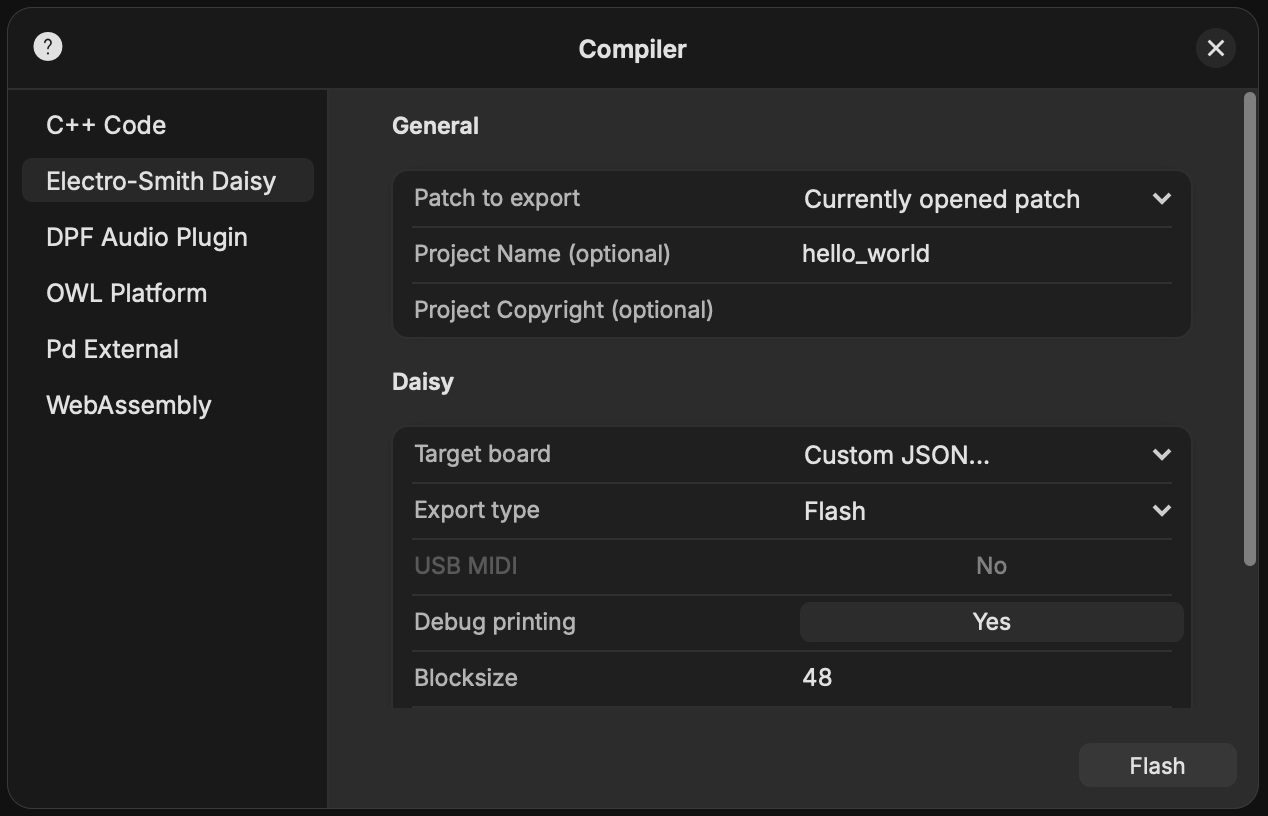
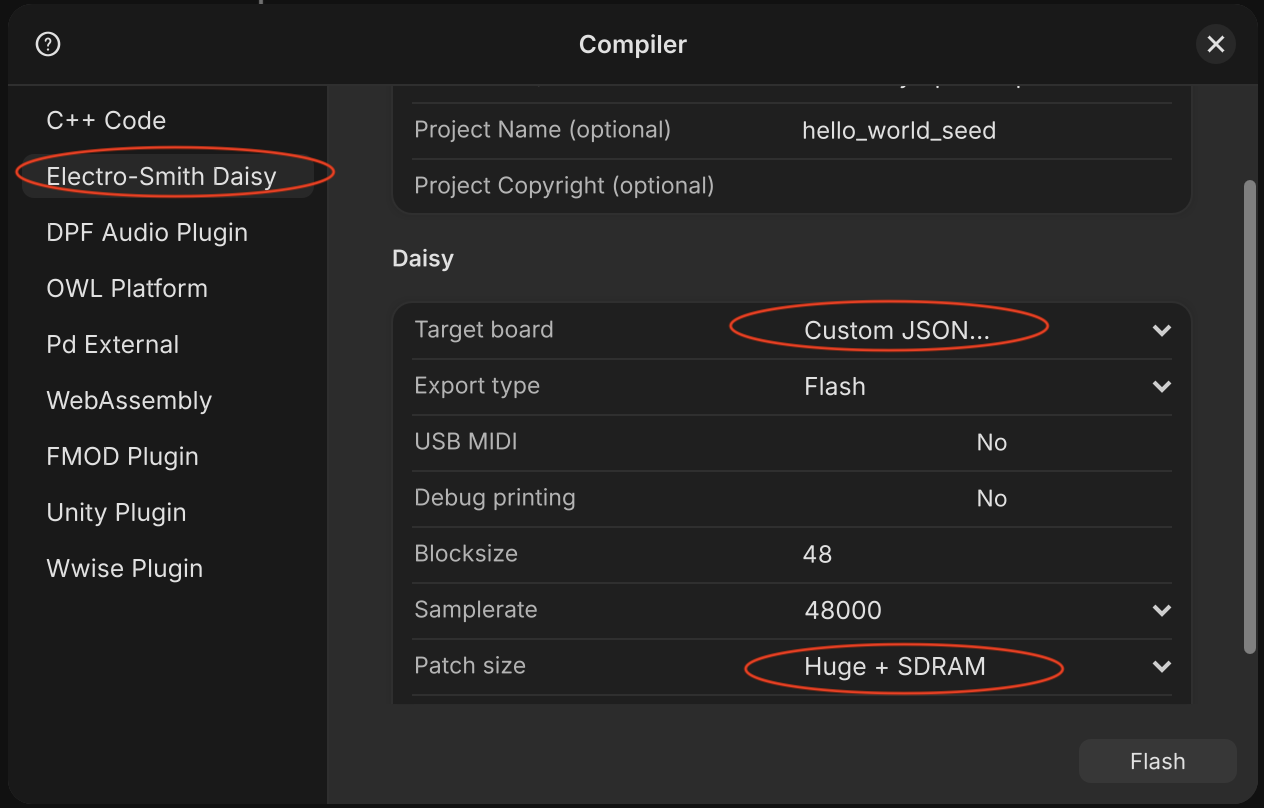
improvements

diff --git a/workshops/daisy/daisy.md b/workshops/daisy/daisy.md
@@ -26,16 +26,16 @@ What's the advantage of using a microcontroller over a computer? Rather than bei
 </p>
 
 
-## Circuits
+<!-- ## Circuits
 
 According to the dictionary, in the general sense the word circuit means "a roughly circular line, route, or movement that starts and finishes at the same place." That applies in the electrical sense, too. A circuit is a loop in which electricity is flowing from "power" back to "ground" and making something happen along the way. We typically use `+` (power) and `-` (ground) to indicate which side of the circuit we're on.
 
 <p align="center">
     <img src="media/circuit_loop.png" width="600" />
 </p>
+ -->
 
-
-### An aside for analogies
+<!-- ### An aside for analogies
 
 `Current` is the amount of electricity that is flowing through the circuit. `Voltage` is the "pressure" at any given point. `Resistance` releases some of that pressure (as heat — it's slightly misnamed IMO, should be more like "Dissipator"). This gives us Ohm's law: Current = Voltage / Resistance.
 
@@ -45,7 +45,7 @@ Likewise, in audio, voltage fluctuations correspond to the _shape_ of the sound.
 
 In Pd, the "signal" connections are also analogous to sound / voltage; they are "waves" between -1 and 1 that flow through your objects.
 
-However, most of what we'll do with the Daisy Seed is more like the "control" connections of Pd. In this case, the voltage isn't oscillating like a wave—it's set at constant values that mean something, like if a toggle is on or off, or a slider is set at a particular position. This is where resistance comes into play. Using resistors (which is what a button, knob, or sensor is from an electrical perspective), we can change the voltage at various places in our circuit, measure the result, and use that as data within Pd.
+However, most of what we'll do with the Daisy Seed is more like the "control" connections of Pd. In this case, the voltage isn't oscillating like a wave—it's set at constant values that mean something, like if a toggle is on or off, or a slider is set at a particular position. This is where resistance comes into play. Using resistors (which is what a button, knob, or sensor is from an electrical perspective), we can change the voltage at various places in our circuit, measure the result, and use that as data within Pd. -->
 
 
 ## Pins
@@ -115,7 +115,7 @@ There is basically only one rule when we make connections. And that is that when
 
 ## Breadboard setup
 
-Put the Daisy on the breadboard like in the image below. Pushing the pins into the board can feel a bit scary, be careful but firm.
+Put the Daisy on the breadboard like in the image below. Pushing the pins into the board can feel a bit scary; be careful but firm.
 
 <p align="center">
     <img src="media/setup_bb.png" width="1000" />
@@ -158,13 +158,31 @@ Coming out of the toggle will be another object, `ac/daisyout led 0`. This one c
     <img src="media/hello_1.png" width="400" />
 </p>
 
+### Compiling
+
+#### Windows:
+
+If you're on a Windows machine, you need to do some initial configuring:
+
+0. Download Zadig from zadig.akeo.ie and open it.
+0. Put the Daisy in bootloader mode: hold BOOT, tap RESET.
+0. In Zadig, choose Options → List All Devices.
+0. Pick “DFU in FS Mode” from the dropdown.
+0. Set the target driver to WinUSB and click Replace Driver (or Install Driver).
+
+
+#### Everyone:
+
 Now choose "Compile" under the main menu. Compiling converts our patch into firmware for the Daisy. You should be prompted to install or update your "toolchain" if you haven't already. Go ahead and do this.
 
 <p align="center">
     <img src="media/toolchain.png" width="600" />
 </p>
 
-Then you'll get to the compiler window. Make sure you have "Electro-Smith Daisy" selected, and for the target board, choose "Custom JSON". This should open a dialog box, where you'll select [compile.json](compile.json) that you've downloaded from github via Moodle.
+Then you'll get to the compiler window. Make sure you have the following selected:
+- "Electro-Smith Daisy" in the left-hand panel
+- Target board set to "Custom JSON"; this should open a dialog box, where you'll select [compile.json](compile.json) (sample available on github and Moodle)
+- Patch size set to "Huge + SDRAM"; this lets us use the full capacity of the Daisy
 
 <p align="center">
     <img src="media/compiler.png" width="600" />
@@ -178,7 +196,7 @@ Plug in your Daisy. Notice that it has two buttons, "boot" and "reset" (very sma
 
 Now you're ready. Click Flash and cross your fingers ("flash" means load firmware onto a microcontroller).
 
-If it works, you'll see this (misleading, I know):
+If it works, you may see success. You might also see this (misleading, I know):
 
 <p align="center">
     <img src="media/good_fail.png" width="600" />

diff --git a/workshops/pd/synthesis.md b/workshops/pd/synthesis.md
@@ -11,6 +11,8 @@ All synthesis starts with oscillators. We'll use `ac/vco~` (VCO stands for Volta
   <img src="media/oscillator_shape.png" width=600 /><br />
 </p>
 
+Here, `ac/scope~` shows the waveform of the signal. It's very useful to see what is going on. Likewise, `ac/spec~` (spectrogram) shows the frequency content of the signal, ie, what frequencies are present and how much. (Notice that `ac/spec~` has an orange border—this means that it cannot be used with the Daisy)
+
 With one oscillator, we're limited to fairly simple tones. But by combining oscillations together in different ways, we can get infinitely complex sounds. The classic techniques used for this are called "additive", "AM", "FM", and "subtractive" synthesis.
 
 
@@ -33,6 +35,8 @@ Similarly, multiplication (`*~`) creates even wilder waveforms—in this case, w
 <p align="center">
   <img src="media/AM.png" width=600 /><br />
 </p>
+
+(The example above uses `ac/slider~`. Unlike a regular slider, it outputs a signal from 0 to 1. We can rescale it logarithmically using the `ac/freqscale~` object, which accomplishes the same thing as using properties on the regular slider. That said, `ac/slider~` is slightly smoother.)
 
 In general, even though LFOs aren't usually intended to be heard directly, they can change the character of other sounds as well as be used to control larger changes in a patch over time (they are largely the basis of modular synthesizers).
 
@@ -107,7 +111,7 @@ Note that Pd allows this to becomes a branching process: any number box can be r
 One very useful technique when creating dynamic sounds is to use `ac/lfo~` and rescale its output, which is 0 to 1, to some other useful range. Because we perceive frequency changes nonlinearly, we can use `ac/freqscale~` to map one range to another logarithmically:
 
 <p align="center">
-  <img src="media/automation.png" width=400 /><br />
+  <img src="media/automation.png" width=500 /><br />
 </p>
 
 Replacing all the variable number boxes in a patch with scaled LFOs, you can create a complex oscillator with multiple interacting parts:
@@ -120,8 +124,17 @@ Replacing all the variable number boxes in a patch with scaled LFOs, you can cre
 
 ## Recording a sound file
 
-To record what's happening in your patch, use `ac/recorder~`. This takes two signals, one for each channel, along with an "open" message to choose a path to write to and "start" and "stop" messages to do the thing. `ac/spkr~` has outlets with its two gain-adjusted channels, so you can just connect those right in to `ac/recorder~`.
+To record what's happening in your patch, Pd provides an option, in the upper-right-hand corner:
+
+<p align="center">
+  <img src="media/recording.png" width=400 /><br />
+</p>
+
+Alternatively, you can use `ac/recorder~`. This takes two signals, one for each channel, along with an "open" message to choose a path to write to and "start" and "stop" messages to do the thing. `ac/spkr~` has outlets with its two gain-adjusted channels, so you can just connect those right in to `ac/recorder~`.
 
 <p align="center">
   <img src="media/recorder.png" width=800 /><br />
 </p>
+
+(Notice that `ac/recorder~` has an orange border—this means that it cannot be used with the Daisy)
+

diff --git a/workshops/pd/pd.md b/workshops/pd/pd.md
@@ -160,10 +160,23 @@ Note that we are working with digital audio—our signal is a series of samples 
 
 One final addition, use the object panel to add a horizontal `slider` leading into the Number box to make it easier to control.
 
-If you click the `slider`, you will see a panel that sets various properties. Set the range of the `slider` to 50–1000, which is a reasonable range for the fundamental frequencies that we might want to hear. Change the "lin" parameter to "log"—frequency works logarithmically, and we want the `slider` to reflect that.
+If you click the `slider`, you will see the inspector panel that sets various properties (it should appear in the right-hand sidebar—if it doesn't, look for the (i) button in the lower right).
+
+<p align="center">
+  <img src="media/inspector_button.png" width=300 /><br />
+</p>
+
+
+Set the range of the `slider` to 50–1000, which is a reasonable range for the fundamental frequencies that we might want to hear. Change the "lin" parameter to "log"—frequency works logarithmically, and we want the `slider` to reflect that.
 
 <p align="center">
   <img src="media/properties.png" width=600 /><br />
+</p>
+
+Alternatively, if you want to think in terms of standard (12 TET) musical tuning, keep it linear and use 0-127 (these are the MIDI notes, ie, every note on a piano (and then some)). To convert a MIDI note into a pitch name, use the `ac/mname` utility object:
+
+<p align="center">
+  <img src="media/midi_names.png" width=700 /><br />
 </p>
 
 Congratulations, you've made your first synthesizer! (Now make sure to save it).
@@ -187,6 +200,7 @@ However, keep in mind that the values in number boxes will not save. If you need
 ## Figuring things out as you go
 
 Some notes on finding your way around:
-- hover your cursor over the inlets and outlets of objects to get info on what they do
+- in edit mode, hover your cursor over the inlets and outlets of objects to get info on what they do
+- hover over signal connections to see what's flowing through them
 - try Option-clicking on an object—if you're in playback mode, it may open up a patch that shows the _contents_ of the object (objects are made of other objects!)
 - Option-clicking while you're in edit mode may open up a helpfile that explains how to use the object

diff --git a/TODO.md b/TODO.md
@@ -1,39 +1,27 @@
 ## now
 
-make sure they set to 48k
+==> sensors! test them, order them.
 
 
-object reference
-option-click vs command-click
-where to find the inspector
+soldering
 
 
-- linear 12TET dial
 - Todd’s Max book for sequencing
 - delay: delay w/ feedback, lpf; flange; chorus; reverb
 - leave distortion where it is, add bitcrush
 - pan goes to envelopes, add a trigger, it can be moving
 - feedback as an effect
-- footswitch!
 - get a follower example from Charlie, look at Mata’s line input and granular patches
 - timestretch?
 
 
 
 
-==> sensors! test them, order them.
 
 /
 
 yellow wire, and some stranded kind
-gather headers
-gather micro-USB, and adapters
 
-need small breadboards
-solder the powerboosts
-zip ties
-
-link to compile.json (in google docs? download as txt?)
 
 
 ## materials 
@@ -44,6 +32,8 @@ https://www.amazon.com/Titebond-Woodworking-Furniture-Assembly-Construction/dp/B
 
 
 ## next
+
+move analogies into a whole intro thing
 
 
 ### pd / ac

diff --git a/README.md b/README.md
@@ -179,7 +179,7 @@ Our college is named after a white colonizer and is built in the Kwinitekw Valle
 ### Week 9
 
 #### Monday 10/26
-- Workshop: [Arrays: Sampling and Live Input](workshops/daisy/arrays.md)
+- Workshop: [Sampling with the Daisy](workshops/daisy/sampling.md)
 - Workshop: [Portable Power and Sound](workshops/daisy/power.md)
 
 #### 5:30PM
